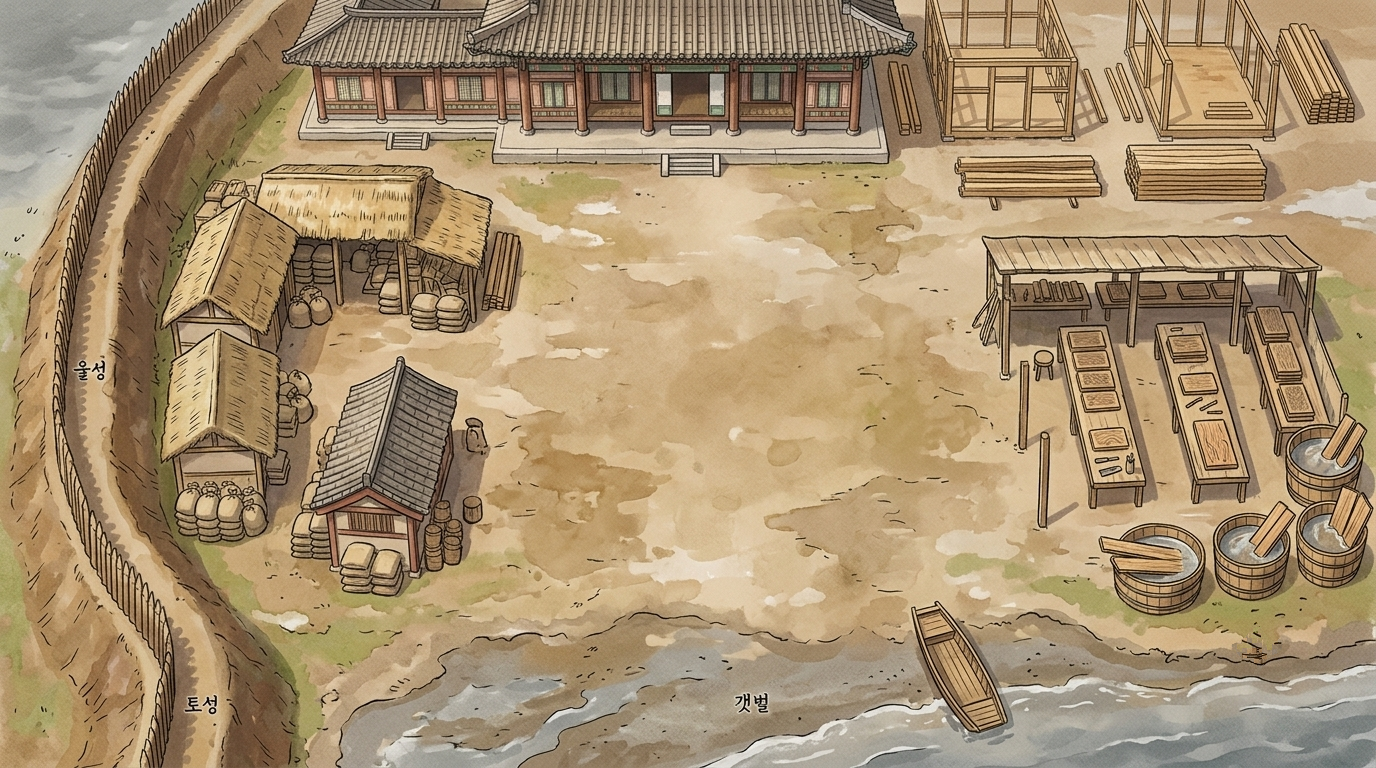
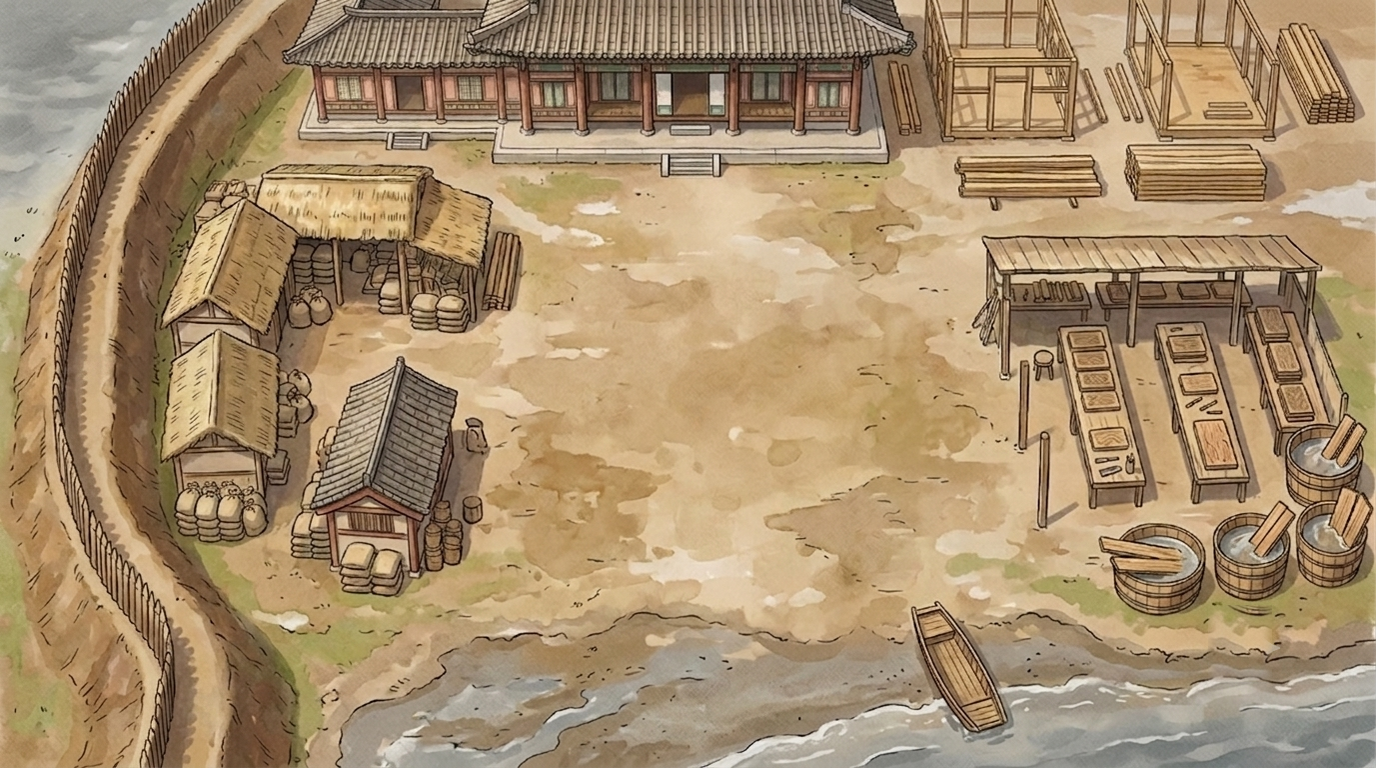
행주산성·강화 임시 도읍 배경 제미나이 로고 제거, 강화 맵 교체·출구 수정
- imjin_haengju.png: 우측 하단에 남아있던 제미나이 로고를 주변 흙/풀
  텍스처로 자연스럽게 메워 지움.
- goryeo2_ganghwa.png: 한글 잔재가 남아있던 배경을 사용자가 새로 받은
  정리본으로 교체(로고도 같은 방식으로 제거). 서경으로 가는 출구를
  마당 한복판에서 5시 방향 나룻배 자리로 옮기고, 서희가 나무 더미에
  걸쳐 서 있던 것을 옆으로 옮겼다.
- 김에 아직 webp가 없던 배경 그림들도 함께 2배 해상도로 변환.

diff --git a/www/goryeo2.html b/www/goryeo2.html
@@ -504,11 +504,14 @@ const ZONES = {
   ganghwa: {
     img: 'assets/scenes/goryeo2_ganghwa.png', label: '강화 임시 도읍',
     spawn: { x: 688, y: 470 },
+    // 서경으로 가는 출구가 마당 한복판(문도 없는 자리)에 있었다 — 5시 방향
+    // 강가의 나룻배로 옮겼다(배를 막던 배리어 자리를 그대로 출구로 바꿈).
+    // 서희도 초가 창고 옆에 세워둔 긴 나무 더미에 걸쳐 서 있어 옆으로 옮겼다.
     barriers: [
       { x0:0, y0:0, x1:240, y1:460 },  // 토성과 울성
       { x0:0, y0:440, x1:310, y1:768 },  // 토성과 울성
       { x0:280, y0:0, x1:935, y1:150 },  // 임시 궁궐
-      { x0:195, y0:155, x1:505, y1:335 },  // 초가 창고
+      { x0:195, y0:155, x1:535, y1:335 },  // 초가 창고와 나무 더미
       { x0:170, y0:330, x1:335, y1:485 },  // 초가 창고
       { x0:315, y0:350, x1:465, y1:575 },  // 기와 창고
       { x0:180, y0:480, x1:320, y1:575 },  // 가마니
@@ -517,19 +520,18 @@ const ZONES = {
       { x0:970, y0:230, x1:1376, y1:335 },  // 판각소
       { x0:1000, y0:330, x1:1376, y1:530 },  // 작업대
       { x0:1085, y0:415, x1:1376, y1:625 },  // 물통
-      { x0:890, y0:585, x1:1010, y1:710 },  // 배
-      { x0:830, y0:600, x1:1376, y1:768 },  // 갯벌
+      { x0:830, y0:600, x1:890, y1:768 }, { x0:1010, y0:600, x1:1376, y1:768 },  // 갯벌(나룻배 자리만 비움)
       { x0:500, y0:690, x1:830, y1:768 },  // 갯벌
       { x0:230, y0:725, x1:500, y1:768 },  // 갯벌
     ],
     npcs: [
-      { id:'seohui', name:'서희', x:520, y:250, img:'assets/portraits/seohui.png', look:{ role:'scholar', body:'#3d5a6b', accent:'#c9a24a' } },
+      { id:'seohui', name:'서희', x:600, y:280, img:'assets/portraits/seohui.png', look:{ role:'scholar', body:'#3d5a6b', accent:'#c9a24a' } },
       { id:'yungwan', name:'윤관', x:680, y:230, img:'assets/portraits/yungwan.png', look:{ role:'general', body:'#4f5d75', accent:'#8a6d3b' } },
       { id:'choechunghyeon', name:'최충헌', x:960, y:420, img:'assets/portraits/choechunghyeon.png', look:{ role:'general', body:'#3d3d4a', accent:'#c9a24a' } },
       { id:'sambyeolcho', name:'삼별초 장수', x:688, y:600, img:'assets/portraits/sambyeolcho.png', look:{ role:'general', body:'#5c2f2f', accent:'#8a6d3b' } },
     ],
     exits: [
-      { rect:{x0:610,y0:400,x1:690,y1:450}, to:'seogyeong', spawn:{x:688,y:690}, label:'서경으로' },
+      { rect:{x0:890,y0:585,x1:1010,y1:710}, to:'seogyeong', spawn:{x:688,y:690}, label:'서경으로' },
     ],
   },
 };
